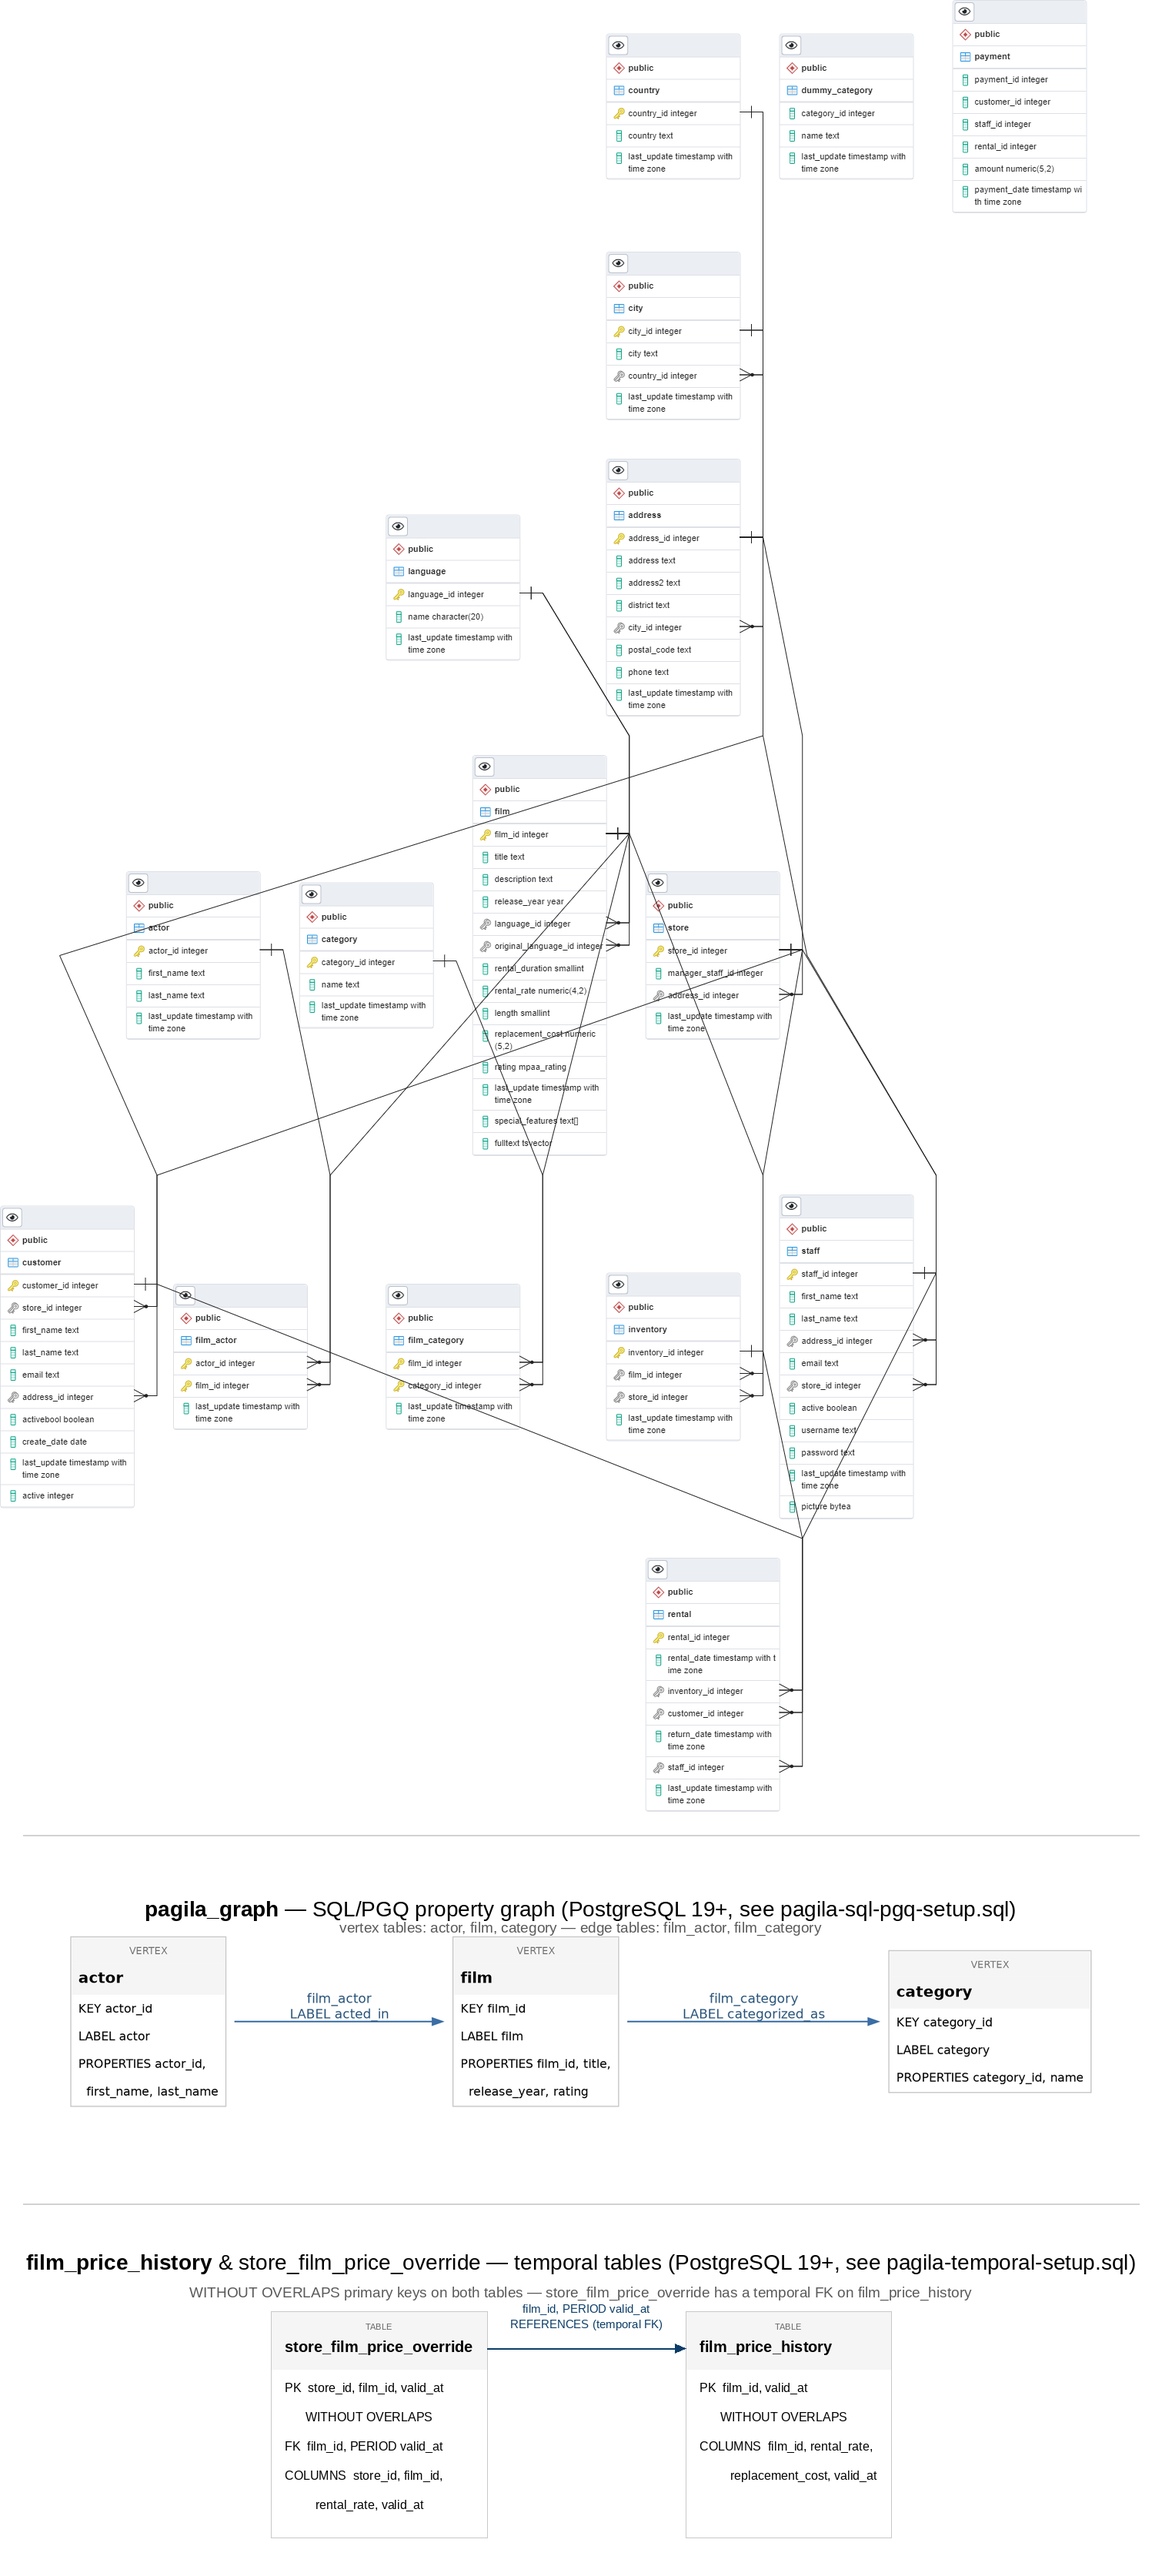
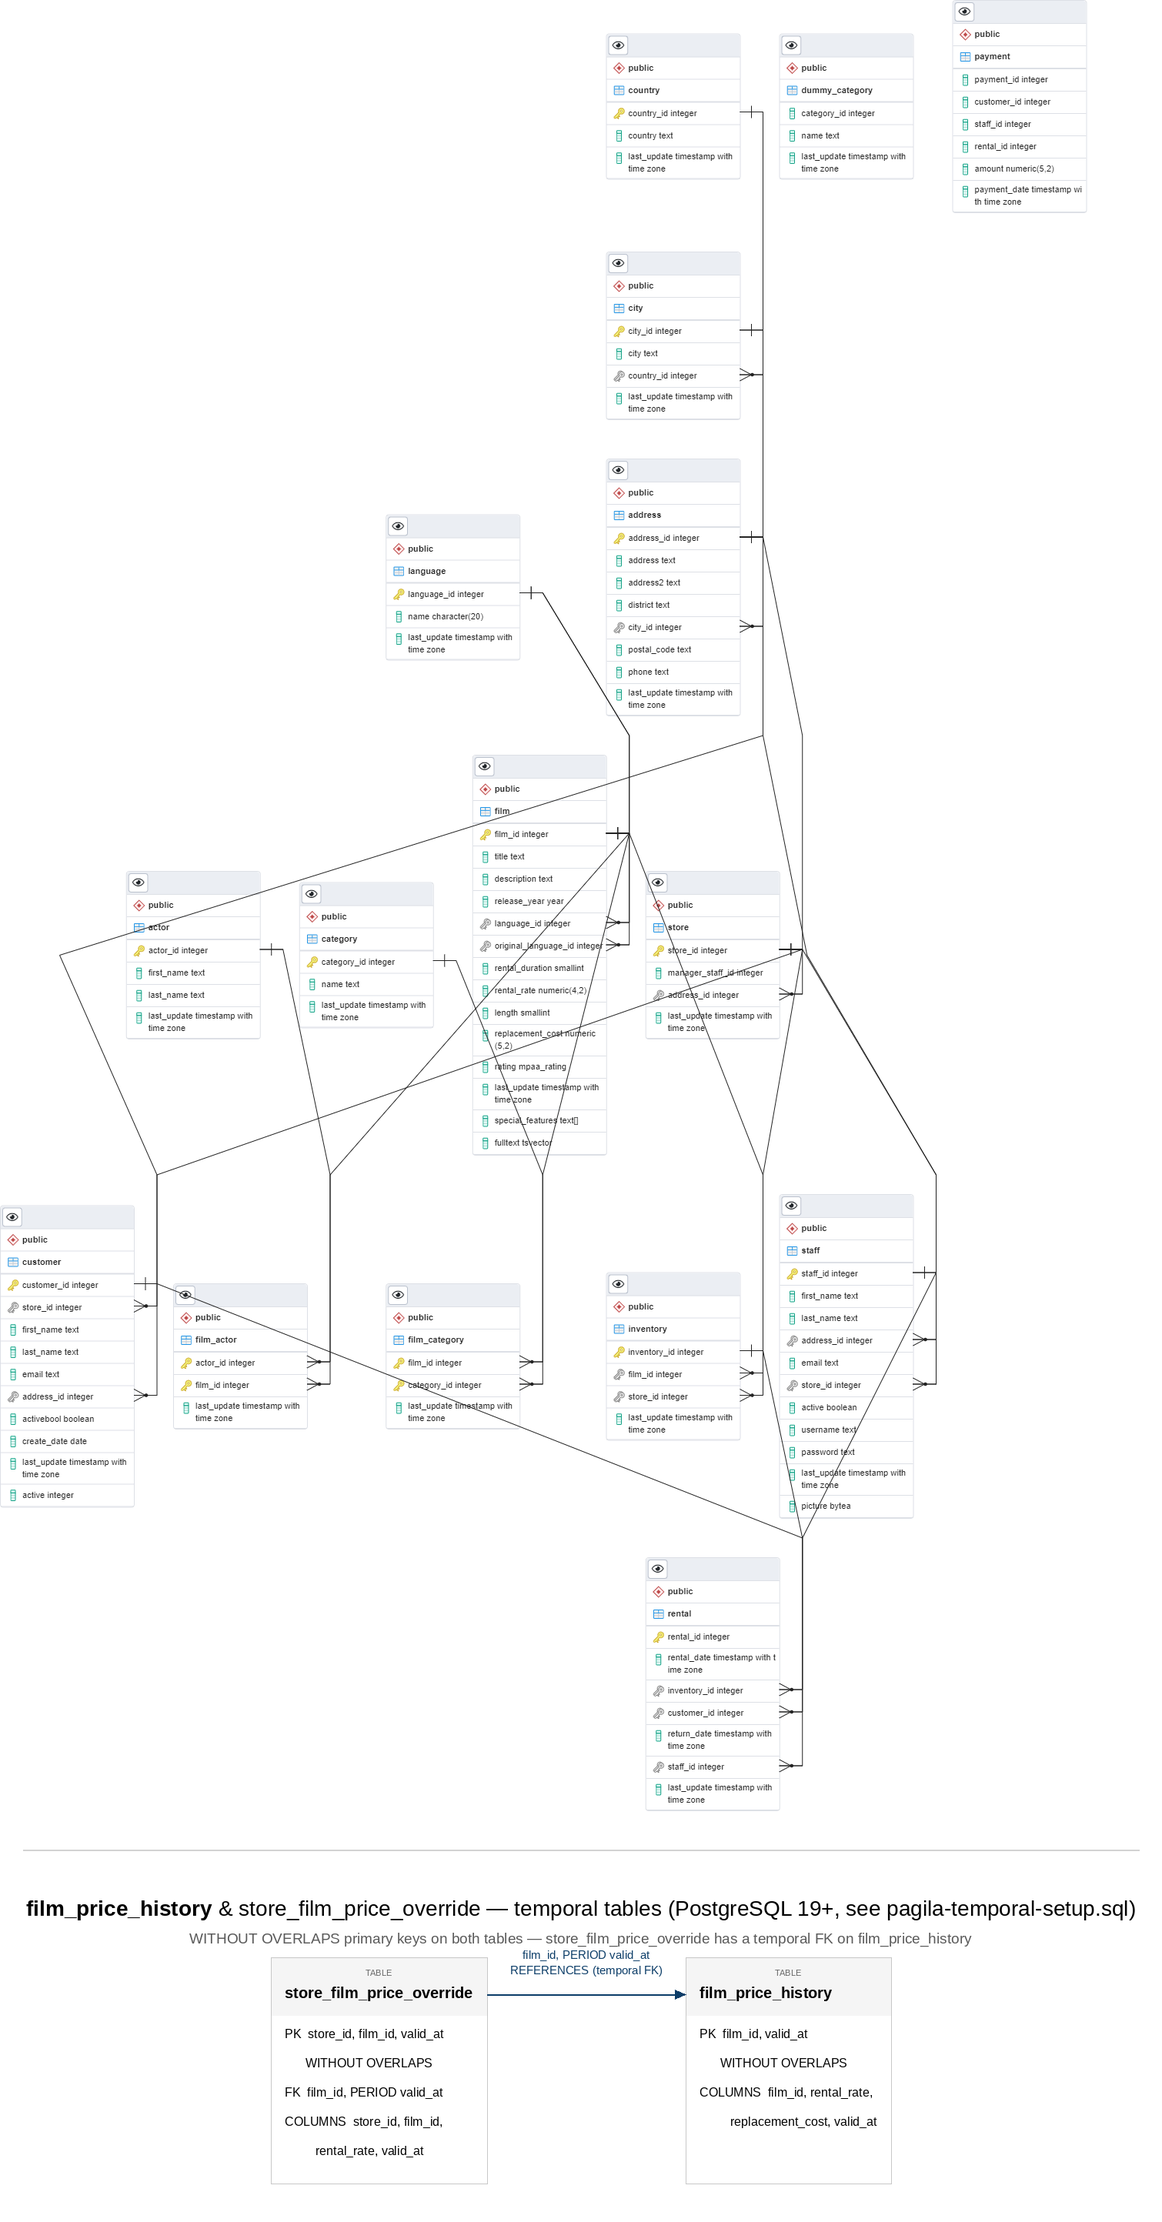
Remove SQL/PGQ property graph example
SQL/PGQ (CREATE PROPERTY GRAPH / GRAPH_TABLE) was reverted from
PostgreSQL 19, so drop the example: delete pagila-sql-pgq-setup.sql,
the README section and the 4.1.0 changelog entry, remove its panel
from pagila-schema-diagram.png, and fix the temporal tables section
which referred to it.

diff --git a/README.md b/README.md
@@ -349,141 +349,13 @@ CALL partman.run_maintenance_proc(0, true, true);
   /path/to/pagila/scripts/run_partman_maintenance.sh >> /var/log/pagila-partman.log 2>&1
 ```
 
-## SQL/PGQ - PROPERTY GRAPH QUERIES (PostgreSQL 19+)
-
-PostgreSQL 19 adds `CREATE PROPERTY GRAPH` and `GRAPH_TABLE`, an
-implementation of SQL/PGQ (ISO/IEC 9075-16), the SQL-standard way to run
-graph pattern-matching queries. A property graph is a read-only view over
-existing relational tables — nothing is duplicated — so it declares which
-tables act as graph vertices and which act as edges, and the planner
-rewrites `MATCH` patterns into ordinary joins underneath (`EXPLAIN` shows
-plain `Nested Loop`/`Index Scan` nodes, not a special graph executor node).
-
-Because this needs PostgreSQL 19, which is newer than this project's
-`postgres:18`-based `docker-compose.yml`, it isn't wired into the compose
-pipeline; instead, `pagila-sql-pgq-setup.sql` is a standalone script to run by
-hand, after `pagila-schema.sql`/`pagila-data.sql`, against a PostgreSQL 19+
-instance:
-
-```sql
-CREATE PROPERTY GRAPH pagila_graph
-  VERTEX TABLES (
-    actor    KEY (actor_id)    LABEL actor    PROPERTIES (actor_id, first_name, last_name),
-    film     KEY (film_id)     LABEL film     PROPERTIES (film_id, title, release_year, rating),
-    category KEY (category_id) LABEL category PROPERTIES (category_id, name)
-  )
-  EDGE TABLES (
-    film_actor
-      SOURCE KEY (actor_id) REFERENCES actor (actor_id)
-      DESTINATION KEY (film_id) REFERENCES film (film_id)
-      LABEL acted_in NO PROPERTIES,
-    film_category
-      SOURCE KEY (film_id) REFERENCES film (film_id)
-      DESTINATION KEY (category_id) REFERENCES category (category_id)
-      LABEL categorized_as NO PROPERTIES
-  );
-```
-
-`film_actor` and `film_category` work as edge tables as-is, with no changes
-needed — both are already primary-keyed on exactly the (source,
-destination) column pair a graph edge needs. `\d pagila_graph` describes
-the shape:
-
-```
- Element Alias |    Element Table     | Element Kind | Source Vertex Alias | Destination Vertex Alias
----------------+----------------------+--------------+---------------------+--------------------------
- actor         | public.actor         | vertex       |                     |
- category      | public.category      | vertex       |                     |
- film          | public.film          | vertex       |                     |
- film_actor    | public.film_actor    | edge         | actor               | film
- film_category | public.film_category | edge         | film                | category
-```
-
-A one-hop pattern — every film PENELOPE GUINESS acted in:
-
-```sql
-SELECT title
-FROM GRAPH_TABLE (pagila_graph
-  MATCH (a IS actor WHERE a.first_name = 'PENELOPE' AND a.last_name = 'GUINESS')-[IS acted_in]->(f IS film)
-  COLUMNS (f.title)
-)
-ORDER BY title;
-```
-
-A two-hop pattern through `film` and back out through `acted_in` in
-reverse (`<-[IS acted_in]-`) finds her co-stars. Filters that compare two
-pattern variables (`a1.actor_id <> a2.actor_id`) aren't supported inside
-the pattern itself in this initial implementation, so that comparison
-moves to the outer query instead:
-
-```sql
-SELECT first_name, last_name, title
-FROM GRAPH_TABLE (pagila_graph
-  MATCH (a1 IS actor WHERE a1.first_name = 'PENELOPE' AND a1.last_name = 'GUINESS')
-        -[IS acted_in]->(f IS film)<-[IS acted_in]-(a2 IS actor)
-  COLUMNS (a1.actor_id AS a1_id, a2.actor_id AS a2_id, a2.first_name, a2.last_name, f.title)
-)
-WHERE a1_id <> a2_id
-ORDER BY last_name, first_name, title;
-```
-
-Chaining through both edge tables (`acted_in` then `categorized_as`) reaches
-a second vertex type in one pattern — every category she's appeared in:
-
-```sql
-SELECT DISTINCT name
-FROM GRAPH_TABLE (pagila_graph
-  MATCH (a IS actor WHERE a.first_name = 'PENELOPE' AND a.last_name = 'GUINESS')
-        -[IS acted_in]->(f IS film)-[IS categorized_as]->(c IS category)
-  COLUMNS (c.name AS name)
-)
-ORDER BY name;
-```
-
-A 4-hop pattern (`actor -> film -> category <- film <- actor`) plus a
-`co_stars` query, combined with `NOT IN`, recommends actors who share a
-genre with her but have never actually shared a film:
-
-```sql
-WITH genre_mates AS (
-  SELECT DISTINCT a2_id, first_name, last_name
-  FROM GRAPH_TABLE (pagila_graph
-    MATCH (a1 IS actor WHERE a1.first_name = 'PENELOPE' AND a1.last_name = 'GUINESS')
-          -[IS acted_in]->(f1 IS film)-[IS categorized_as]->(c IS category)
-          <-[IS categorized_as]-(f2 IS film)<-[IS acted_in]-(a2 IS actor)
-    COLUMNS (a1.actor_id AS a1_id, a2.actor_id AS a2_id, a2.first_name, a2.last_name)
-  )
-  WHERE a1_id <> a2_id
-),
-co_stars AS (
-  SELECT DISTINCT a2_id
-  FROM GRAPH_TABLE (pagila_graph
-    MATCH (a1 IS actor WHERE a1.first_name = 'PENELOPE' AND a1.last_name = 'GUINESS')
-          -[IS acted_in]->(f IS film)<-[IS acted_in]-(a2 IS actor)
-    COLUMNS (a2.actor_id AS a2_id)
-  )
-)
-SELECT first_name, last_name
-FROM genre_mates
-WHERE a2_id NOT IN (SELECT a2_id FROM co_stars)
-ORDER BY last_name, first_name;
-```
-
-Note: this initial PostgreSQL 19 implementation covers fixed-depth
-patterns only — quantified/variable-length path patterns (e.g. a `{1,3}`
-hop-count range) and path search modes (`ANY SHORTEST`, `ALL`) aren't
-supported yet, which is why the "genre mates" query above chains two fixed
-patterns with `NOT IN` rather than expressing it as a single variable-length
-path.
-
 ## TEMPORAL TABLES (PostgreSQL 19+)
 
 PostgreSQL 19 adds application-time temporal support from SQL:2011
 (ISO/IEC 9075-2): `WITHOUT OVERLAPS` primary/unique keys and temporal
 foreign keys built on range-typed columns, plus native `UPDATE`/`DELETE
 ... FOR PORTION OF` DML that splits a row at the edges of the portion
-being changed instead of requiring hand-written split logic. Like SQL/PGQ
-above, this needs PostgreSQL 19, so it isn't wired into
+being changed instead of requiring hand-written split logic. Since this needs PostgreSQL 19, it isn't wired into
 `docker-compose.yml`; `pagila-temporal-setup.sql` is a standalone script
 to run by hand, after `pagila-schema.sql`/`pagila-data.sql`, against a
 PostgreSQL 19+ instance.
@@ -692,7 +564,6 @@ pg_restore /usr/share/pagila/pagila-data-apt-jsonb.backup -U postgres -d pagila
 Version 4.1.0
 - Add pgvector support and a `film_embedding` table with a `vector(20)` per film — a multi-hot encoding of its categories plus a few normalized numeric attributes, engineered from existing `film`/`film_category` data rather than a real text-embedding model — indexed with HNSW (`vector_cosine_ops`) and documented in the README with cosine-distance nearest-neighbor examples
 - Install `pg_partman` and `pgvector` in the `Dockerfile` from the PGDG apt repo instead of building both from source, now that the repo carries current packages for each
-- Add `pagila-sql-pgq-setup.sql`, declaring a `pagila_graph` property graph over the existing `actor`/`film`/`category` vertex tables and `film_actor`/`film_category` edge tables (no new data), demonstrating PostgreSQL 19's SQL/PGQ (`CREATE PROPERTY GRAPH`/`GRAPH_TABLE`) with `MATCH` pattern examples in the README, verified against a `postgres:19beta2` container, with a matching panel added to `pagila-schema-diagram.png`
 - Add `film.length_hours`, a `VIRTUAL` generated column (`round(length / 60.0, 2)`) demonstrating PostgreSQL 18's new virtual generated columns, documented in the README alongside a note that (unlike `STORED`) virtual generated columns can't be indexed directly
 - Add `pagila-temporal-setup.sql`, declaring `film_price_history` (`WITHOUT OVERLAPS` primary key on `film_id`/a `daterange`) and `store_film_price_override` (a temporal foreign key back to it), demonstrating PostgreSQL 19's SQL:2011 application-time temporal support — `WITHOUT OVERLAPS` keys, temporal foreign keys, and `UPDATE`/`DELETE ... FOR PORTION OF` row-splitting DML — with overlaps/containment predicate examples in the README, verified against a `postgres:19beta2` container, with a matching panel added to `pagila-schema-diagram.png`
 
